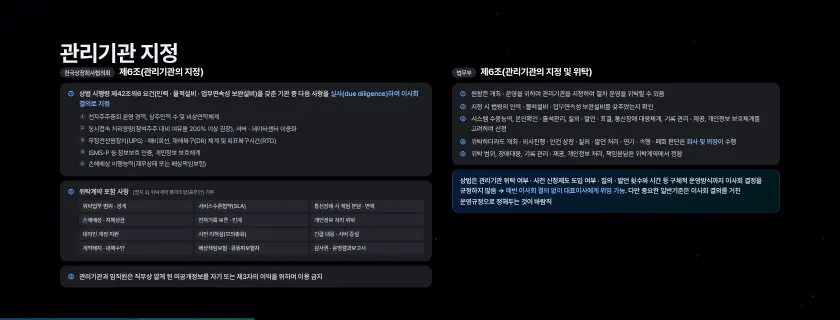
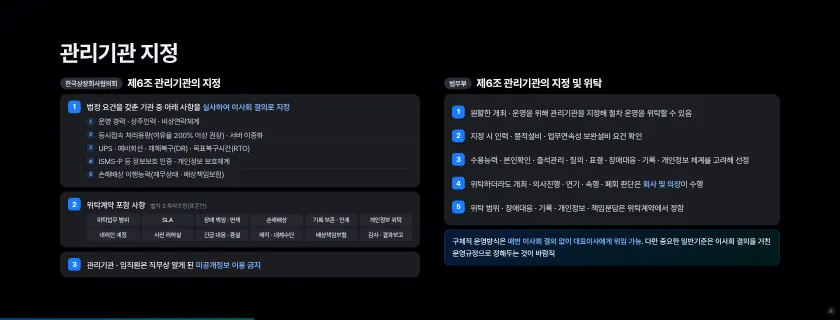
session4 K09b · K28e 재정리: 원문자 대신 파랑 번호 배지, 본문 37~44px로 키움, 문구 압축(칩 12개 6열 2줄 · 권고사항 7개 번호), 제목 아래 간격
Claude-Session: https://claude.ai/code/session_01Mn7NmyW5iujmmHnaRBFKBZ

Changed region(s): [[0.0619, 0.1875, 0.9286, 0.9062]]

diff --git a/session4.html b/session4.html
@@ -1714,6 +1714,68 @@ body:not(.idle) #sgb{opacity:.9}body.grid #sgb{opacity:0;pointer-events:none}
 #K30 .gr-t{background:linear-gradient(90deg,#F2F5FA 0%,#F2F5FA 42%,#0081cc 58%,#00ada9 100%);background-size:240% 100%;background-position:0% 0;-webkit-background-clip:text;background-clip:text}
 .s.cur#K30.p2 .gr-t{animation:k30w 1.6s cubic-bezier(.45,0,.2,1) 2.6s both}
 @keyframes k30w{from{background-position:0% 0}to{background-position:100% 0}}
+/* 11/26 20:19 K09b · K28e 재정리: 원문자 대신 번호 배지, 글자 키움(본문 40px 안팎), 문구 압축 */
+.gd .gcol{top:300px!important;gap:24px!important}
+.gd .gsrc{align-items:center;gap:24px;margin-bottom:8px}
+.gd .gsrc span{padding:12px 26px;font-size:34px;background:#2a2d34;color:#dfe4ea}
+.gd .gsrc b{font-size:54px}
+.gd .nb{flex:none;display:grid;place-items:center;width:64px;height:64px;border-radius:18px;background:#1a7cff;font:700 36px/1 "Pretendard Variable";font-style:normal;color:#fff}
+.gd .gbx{padding:34px 40px;border-radius:32px}
+.gd .gi{display:flex;gap:30px;align-items:flex-start}
+.gd .gi>div{flex:1;min-width:0}
+.gd .gi .gp{padding:0;margin-top:6px}
+.gd .gp{font:500 40px/1.45 "Pretendard Variable";color:#F2F5FA}
+.gd .gp small{display:block;margin:8px 0 0;font:400 30px/1.3 "Pretendard Variable";color:#8a919c}
+.gd .gl{margin:18px 0 0;counter-reset:g}
+.gd .gl li{padding:10px 0 10px 56px;font:400 36px/1.35 "Pretendard Variable";color:#cfd5de;border-top:2px solid rgba(242,245,250,.06)}
+.gd .gl li:first-child{border-top:0}
+.gd .gl li::before{top:12px;width:38px;height:38px;border-radius:10px;background:rgba(26,124,255,.2);font:700 24px/38px "Pretendard Variable";color:#7fb6ff}
+.gd .gchips{margin:20px 0 0;grid-template-columns:repeat(4,1fr);gap:12px}
+.gd .gchips span{padding:16px 18px;border-radius:16px;font:500 30px/1.25 "Pretendard Variable";color:#e1e5eb;text-align:center}
+.gd .gn{gap:0}
+.gd .gn li{display:flex;gap:28px;align-items:flex-start;padding:22px 0;border-top:2px solid rgba(242,245,250,.06)}
+.gd .gn li:first-child{border-top:0;padding-top:0}.gd .gn li:last-child{padding-bottom:0}
+.gd .gn li p{margin:8px 0 0;font:400 38px/1.42 "Pretendard Variable";color:#e1e5eb}
+.gd .gkey{padding:34px 42px}
+.gd .gkey p{font:500 38px/1.5 "Pretendard Variable"}
+#K28e .gtx{font:400 40px/1.5 "Pretendard Variable";color:#cfd5de;margin:0 0 4px}
+#K28e .gtwo>div{padding:36px 40px}
+#K28e .gtwo .tg{display:inline-block;padding:8px 18px;border-radius:12px;background:#1a7cff;font:700 28px/1 "Pretendard Variable";color:#fff}
+#K28e .gtwo b{display:block;margin:20px 0 0;font:700 48px/1.15 "Pretendard Variable"}
+#K28e .gtwo p{margin:16px 0 0;font:400 36px/1.45 "Pretendard Variable";color:#cfd5de}
+#K28e .g7{gap:20px}
+#K28e .g7>div{display:flex;gap:28px;align-items:flex-start;padding:32px 36px}
+#K28e .g7>div>div{flex:1;min-width:0}
+#K28e .g7 b{font:700 44px/1.2 "Pretendard Variable";color:#fff}
+#K28e .g7 b small{font-size:30px}
+#K28e .g7 p{margin:12px 0 0;font:400 34px/1.42 "Pretendard Variable";color:#cfd5de}
+.gd .gcol{top:350px!important;gap:20px!important}
+.gd .gn li .nb,.gd .gi .nb{position:static}
+.gd .gp small.in{display:inline;margin-left:16px}
+#K09b .gbx{padding:30px 38px}
+#K09b .gl{margin-top:12px}
+#K09b .gl li{padding:8px 0 8px 56px;font-size:34px}
+#K09b .gl li::before{top:9px}
+#K09b .gchips{margin-top:16px}
+#K09b .gchips span{padding:12px 14px;font-size:29px}
+.gd .gcol{top:385px!important}
+#K09b .gchips{grid-template-columns:repeat(6,1fr);gap:10px}
+#K09b .gchips span{padding:12px 6px;font-size:28px;white-space:nowrap}
+#K09b .gl li{padding:6px 0 6px 56px}
+#K09b .gl li::before{top:7px}
+.gd .gsrc{margin-bottom:0}
+.gd .nb{color:#fff!important}
+#K09b .gl li{padding:9px 0 9px 58px;font-size:37px}#K09b .gl li::before{top:12px}
+#K09b .gchips span{padding:16px 6px;font-size:30px}
+#K09b .gbx{padding:36px 40px}
+#K09b .gn li{padding:26px 0}#K09b .gn li p{font-size:40px}
+#K28e .gcol{gap:26px!important}
+#K28e .gtx{font-size:44px}
+#K28e .gtwo b{font-size:52px}#K28e .gtwo p{font-size:39px}#K28e .gtwo>div{padding:40px 42px}
+#K28e .gkey p{font-size:40px}
+#K28e .g7{gap:22px}#K28e .g7>div{padding:36px 40px}
+#K28e .g7 b{font-size:48px}#K28e .g7 p{font-size:37px}
+#K09b .gl li{padding:7px 0 7px 58px}#K09b .gl li::before{top:10px}#K09b .gchips span{padding:13px 6px}#K09b .gbx{padding:32px 40px}
 </style></head>
 <body>
 <div class="stage" id="stage">
@@ -1830,23 +1892,23 @@ body:not(.idle) #sgb{opacity:.9}body.grid #sgb{opacity:0;pointer-events:none}
 
 <section class="s gd" id="K09b" data-t="관리기관 지정 (상장협 · 법무부)" data-dim=".1">
  <div class="top"><h2 class="h hm fu" style="--i:0">관리기관 지정</h2></div>
- <div class="gcol" style="left:300px;width:1860px">
-  <div class="gsrc fu" style="--i:1"><span>한국상장회사협의회</span><b>제6조(관리기관의 지정)</b></div>
-  <div class="gbx fu" style="--i:2"><p class="gp"><i>①</i>상법 시행령 제42조의6 요건(인력 · 물적설비 · 업무연속성 보완설비)을 갖춘 기관 중 다음 사항을 <em>실사(due diligence)하여 이사회 결의로 지정</em></p>
-   <ol class="gl"><li>전자주주총회 운영 경력, 상주인력 수 및 비상연락체계</li><li>동시접속 처리용량(참석주주 대비 여유율 200% 이상 권장), 서버 · 데이터센터 이중화</li><li>무정전전원장치(UPS) · 예비회선, 재해복구(DR) 체계 및 목표복구시간(RTO)</li><li>ISMS-P 등 정보보호 인증, 개인정보 보호체계</li><li>손해배상 이행능력(재무상태 또는 배상책임보험)</li></ol></div>
-  <div class="gbx fu" style="--i:3"><p class="gp"><i>②</i>위탁계약 포함 사항 <small>[별지 3] 위탁계약 특약조항(표준안) 기본</small></p>
-   <div class="gchips"><span>위탁업무 범위 · 경계</span><span>서비스수준협약(SLA)</span><span>통신장애 시 책임 분담 · 면책</span><span>손해배상 · 지체상금</span><span>전자기록 보존 · 인계</span><span>개인정보 처리 위탁</span><span>대리인 계정 지원</span><span>사전 리허설(모의총회)</span><span>긴급 대응 · 서버 증설</span><span>계약해지 · 대체수단</span><span>배상책임보험 · 공동피보험자</span><span>감사권 · 운영결과보고서</span></div></div>
-  <div class="gbx fu" style="--i:4"><p class="gp"><i>③</i>관리기관과 임직원은 직무상 알게 된 미공개정보를 자기 또는 제3자의 이익을 위하여 이용 금지</p></div>
+ <div class="gcol gL" style="left:300px;width:1800px">
+  <div class="gsrc fu" style="--i:1"><span>한국상장회사협의회</span><b>제6조 관리기관의 지정</b></div>
+  <div class="gbx fu" style="--i:2"><div class="gi"><i class="nb">1</i><div><p class="gp">법정 요건을 갖춘 기관 중 아래 사항을 <em>실사하여 이사회 결의로 지정</em></p>
+   <ol class="gl"><li>운영 경력 · 상주인력 · 비상연락체계</li><li>동시접속 처리용량(여유율 200% 이상 권장) · 서버 이중화</li><li>UPS · 예비회선 · 재해복구(DR) · 목표복구시간(RTO)</li><li>ISMS-P 등 정보보호 인증 · 개인정보 보호체계</li><li>손해배상 이행능력(재무상태 · 배상책임보험)</li></ol></div></div></div>
+  <div class="gbx fu" style="--i:3"><div class="gi"><i class="nb">2</i><div><p class="gp">위탁계약 포함 사항 <small class="in">별지 3 특약조항(표준안)</small></p>
+   <div class="gchips"><span>위탁업무 범위</span><span>SLA</span><span>장애 책임 · 면책</span><span>손해배상</span><span>기록 보존 · 인계</span><span>개인정보 위탁</span><span>대리인 계정</span><span>사전 리허설</span><span>긴급 대응 · 증설</span><span>해지 · 대체수단</span><span>배상책임보험</span><span>감사 · 결과보고</span></div></div></div></div>
+  <div class="gbx fu" style="--i:4"><div class="gi"><i class="nb">3</i><p class="gp">관리기관 · 임직원은 직무상 알게 된 <em>미공개정보 이용 금지</em></p></div></div>
  </div>
- <div class="gcol" style="left:2260px;width:1640px">
-  <div class="gsrc fu" style="--i:2"><span>법무부</span><b>제6조(관리기관의 지정 및 위탁)</b></div>
+ <div class="gcol gR" style="left:2220px;width:1680px">
+  <div class="gsrc fu" style="--i:2"><span>법무부</span><b>제6조 관리기관의 지정 및 위탁</b></div>
   <div class="gbx fu" style="--i:3"><ol class="gn">
-   <li><i>①</i>원활한 개최 · 운영을 위하여 관리기관을 지정하여 절차 운영을 위탁할 수 있음</li>
-   <li><i>②</i>지정 시 법령의 인력 · 물적설비 · 업무연속성 보완설비를 갖추었는지 확인</li>
-   <li><i>③</i>시스템 수용능력, 본인확인 · 출석관리, 질의 · 발언 · 표결, 통신장애 대응체계, 기록 관리 · 제공, 개인정보 보호체계를 고려하여 선정</li>
-   <li><i>④</i>위탁하더라도 개최 · 의사진행 · 안건 상정 · 질의 · 발언 처리 · 연기 · 속행 · 폐회 판단은 <em>회사 및 의장</em>이 수행</li>
-   <li><i>⑤</i>위탁 범위, 장애대응, 기록 관리 · 제공, 개인정보 처리, 책임분담은 위탁계약에서 정함</li></ol></div>
-  <div class="gkey fu" style="--i:4"><p>상법은 관리기관 위탁 여부 · 사전 신청제도 도입 여부 · 질의 · 발언 횟수와 시간 등 구체적 운영방식까지 이사회 결정을 규정하지 않음 → <em>매번 이사회 결의 없이 대표이사에게 위임 가능</em>. 다만 중요한 일반기준은 이사회 결의를 거친 운영규정으로 정해두는 것이 바람직</p></div>
+   <li><i class="nb">1</i><p>원활한 개최 · 운영을 위해 관리기관을 지정해 절차 운영을 위탁할 수 있음</p></li>
+   <li><i class="nb">2</i><p>지정 시 인력 · 물적설비 · 업무연속성 보완설비 요건 확인</p></li>
+   <li><i class="nb">3</i><p>수용능력 · 본인확인 · 출석관리 · 질의 · 표결 · 장애대응 · 기록 · 개인정보 체계를 고려해 선정</p></li>
+   <li><i class="nb">4</i><p>위탁하더라도 개최 · 의사진행 · 연기 · 속행 · 폐회 판단은 <em>회사 및 의장</em>이 수행</p></li>
+   <li><i class="nb">5</i><p>위탁 범위 · 장애대응 · 기록 · 개인정보 · 책임분담은 위탁계약에서 정함</p></li></ol></div>
+  <div class="gkey fu" style="--i:4"><p>구체적 운영방식은 <em>매번 이사회 결의 없이 대표이사에게 위임 가능</em>. 다만 중요한 일반기준은 이사회 결의를 거친 운영규정으로 정해두는 것이 바람직</p></div>
  </div>
 </section>
 
@@ -2140,22 +2202,22 @@ body:not(.idle) #sgb{opacity:.9}body.grid #sgb{opacity:0;pointer-events:none}
 
 <section class="s gd" id="K28e" data-t="운영지원 5 · 통신장애 (법무부 권고)" data-dim=".1">
  <div class="top"><h2 class="h hm fu" style="--i:0">통신장애</h2></div>
- <div class="gcol" style="left:300px;width:1300px">
-  <div class="gsrc fu" style="--i:1"><span>법무부</span><b>마. 통신장애에 대한 대책</b></div>
-  <p class="gtx fu" style="--i:2">사이버 공격이나 대규모 장애로 통신장애가 발생할 수 있으므로, 회사는 통신장애에 대한 대책을 강구하여야 함</p>
-  <div class="gtwo fu" style="--i:3"><div><i>①</i><b>사전 대응</b><p>준비 단계에서 합리적 대책을 갖추고 통신장애의 위험을 사전 고지</p></div><div><i>②</i><b>사후 대응</b><p>실제 장애 발생 시 최대한 신속하고 효율적으로 피해를 최소화</p></div></div>
-  <div class="gkey fu" style="--i:4"><p>①, ②의 사전적 · 사후적 대응조치를 충실히 취한 경우, 통신장애로 일부 전자출석 주주의 참석이 제한되더라도 <em>결의취소에 이르는 하자가 아닌 것</em>으로 판단되거나 <em>재량기각(상법 제379조)의 요건을 갖춘 것</em>으로 판단될 여지가 있음</p></div>
+ <div class="gcol gL" style="left:300px;width:1320px">
+  <div class="gsrc fu" style="--i:1"><span>법무부</span><b>통신장애에 대한 대책</b></div>
+  <p class="gtx fu" style="--i:2">사이버 공격이나 대규모 장애로 통신장애가 발생할 수 있으므로, 회사는 대책을 강구하여야 함</p>
+  <div class="gtwo fu" style="--i:3"><div><span class="tg">사전</span><b>사전 대응</b><p>준비 단계에서 합리적 대책을 갖추고 위험을 사전 고지</p></div><div><span class="tg">사후</span><b>사후 대응</b><p>장애 발생 시 신속 · 효율적으로 피해 최소화</p></div></div>
+  <div class="gkey fu" style="--i:4"><p>사전 · 사후 대응을 충실히 했다면, 일부 주주의 참석이 제한되더라도 <em>결의취소 하자가 아니거나</em> <em>재량기각(상법 제379조) 요건</em>을 갖춘 것으로 판단될 여지</p></div>
  </div>
- <div class="gcol" style="left:1720px;width:2180px">
-  <div class="gsrc fu" style="--i:2"><span>법무부</span><b>(2) 통신장애 대책에 관한 구체적 권고사항</b></div>
+ <div class="gcol gR" style="left:1740px;width:2160px">
+  <div class="gsrc fu" style="--i:2"><span>법무부</span><b>구체적 권고사항</b></div>
   <div class="g7">
-   <div class="fu" style="--i:3"><b>시스템 및 백업</b><p>검증된 전문 플랫폼 이용, 서버 · 회선 · 중계 장비 · 호스트 계정 이중화(유선 · 무선 · 이동통신 복수 회선, 공동 호스트)</p></div>
-   <div class="fu" style="--i:3"><b>용량 산정</b><p>출석률 · 주주 수 · 관심도로 1차 용량 확보, 사전 신청 추이에 따라 증설. 초과 예상 시 용량 확충 · 일정 분산 · 지원인력 확대</p></div>
-   <div class="fu" style="--i:4"><b>장애 시나리오별 대응 매뉴얼</b><p>장애 유형별 대응 매뉴얼 작성</p></div>
-   <div class="fu" style="--i:4"><b>당일 현장 운영</b><p>시스템 기술진(관리기관 포함) 현장 배치, 상시 모니터링, 주주지원센터 운영</p></div>
-   <div class="fu" style="--i:5"><b>관계자 교육 및 결과보고</b><p>의장 · 이사 · 감사에게 사용법 사전 교육, 실제 환경에서 접속 · 본인확인 · 표결 · 장애 대응 시험 결과 보고</p></div>
-   <div class="fu" style="--i:5"><b>준비완료 확인</b><p>소집통지 전 운영규정 · 수용능력 · 인증수단 · 위탁계약 · 개인정보보호, 총회 전날 신청 명부 · 대리인 접속정보 · 예비 인력 · 백업 확인</p></div>
-   <div class="fu w" style="--i:6"><b>주주에 대한 사전 고지 · 안내 <small>소집통지 및 로그인 화면</small></b><p>통신장애 · 지연 가능성과 처리 방침(현장 출석 등 대체 수단, 휴회 · 연기 · 속행), 접속 환경(기기 · OS · 브라우저 · 접속속도 · 앱) · 절차 · 기술지원 연락처 안내, 주주 측 환경에 기인한 장애는 회사 책임이 아니며 결의의 하자가 되지 않는다는 점 고지</p></div>
+   <div class="fu" style="--i:3"><i class="nb">1</i><div><b>시스템 및 백업</b><p>검증된 플랫폼, 서버 · 회선 · 중계 장비 · 호스트 계정 이중화</p></div></div>
+   <div class="fu" style="--i:3"><i class="nb">2</i><div><b>용량 산정</b><p>출석률 · 주주 수로 1차 확보, 사전 신청 추이에 따라 증설</p></div></div>
+   <div class="fu" style="--i:4"><i class="nb">3</i><div><b>장애 대응 매뉴얼</b><p>장애 유형별 시나리오 · 대응 매뉴얼 작성</p></div></div>
+   <div class="fu" style="--i:4"><i class="nb">4</i><div><b>당일 현장 운영</b><p>기술진 현장 배치 · 상시 모니터링 · 주주지원센터</p></div></div>
+   <div class="fu" style="--i:5"><i class="nb">5</i><div><b>교육 및 결과보고</b><p>의장 · 이사 · 감사 사전 교육, 실제 환경 시험 결과 보고</p></div></div>
+   <div class="fu" style="--i:5"><i class="nb">6</i><div><b>준비완료 확인</b><p>소집통지 전 · 총회 전날 운영규정 · 명부 · 접속정보 · 백업 확인</p></div></div>
+   <div class="fu w" style="--i:6"><i class="nb">7</i><div><b>주주 사전 고지 · 안내 <small>소집통지 · 로그인 화면</small></b><p>지연 가능성과 대체 수단(현장 출석 · 휴회 · 연기 · 속행), 접속 환경 · 기술지원 연락처 안내. 주주 측 환경에 기인한 장애는 회사 책임이 아니며 결의 하자가 되지 않음을 고지</p></div></div>
   </div>
  </div>
 </section> 

diff --git a/sw.js b/sw.js
@@ -1,5 +1,5 @@
 /* 오프라인 캐시 — 온라인 주소(https)로 한 번 열면 모든 파일을 저장해 두고, 통신이 끊겨도 저장본으로 동작합니다. */
-const V='seminar-screen-11262022';
+const V='seminar-screen-11262025';
 const FILES=["./","assets/KakaoBigSans-Bold.woff2","assets/KakaoBigSans-Regular.woff2","assets/KakaoSmallSans-Bold.woff2","assets/KakaoSmallSans-Light.woff2","assets/KakaoSmallSans-Regular.woff2","assets/OrbitControls.js","assets/PretendardVariable.woff2","assets/attendees.js","assets/blue-bloom.html","assets/cong1.webp","assets/cong2.webp","assets/ds-bg.html","assets/four-states.html","assets/intro.mp4","assets/irk-white.svg","assets/irk-wordmark-white.svg","assets/kism-intro.mp4","assets/kism-white.svg","assets/ksmp-white.svg","assets/panel.js","assets/qa-online.js","assets/s2/img1.png","assets/s2/img2.png","assets/s2/img3.png","assets/s2/img4.png","assets/s4/aws.webp","assets/s4/callcenter.webp","assets/s4/chair-1.webp","assets/s4/chair-2.webp","assets/s4/chair-3.webp","assets/s4/conexus-word.webp","assets/s4/ctl-1.webp","assets/s4/cx-1.webp","assets/s4/cx-2.webp","assets/s4/cx-3.webp","assets/s4/cx-flow.mp4","assets/s4/cx-pop1.webp","assets/s4/cx-pop2.webp","assets/s4/cx-vote.mp4","assets/s4/cx-vote.webp","assets/s4/cxs-1.webp","assets/s4/insurance.webp","assets/s4/isms-t.webp","assets/s4/isms.webp","assets/s4/ismsp-t.webp","assets/s4/ismsp.webp","assets/s4/kosmos-white.png","assets/s4/ks-1.webp","assets/s4/ks-2.webp","assets/s4/ks-3.webp","assets/s4/ks-4.webp","assets/s4/ks-5.webp","assets/s4/ks-video.webp","assets/s4/live-1.webp","assets/s4/live-2.webp","assets/s4/live-3.webp","assets/s4/live-4.webp","assets/s4/live-5.webp","assets/s4/live-6.webp","assets/s4/live-7.webp","assets/s4/live-8.webp","assets/s4/logos.webp","assets/s4/ocr-1.webp","assets/s4/ocr-2.webp","assets/s4/ocr-3.webp","assets/s4/ocr-4.webp","assets/s4/ocr-5.webp","assets/s4/on-1.png","assets/s4/on-2.webp","assets/s4/on-3.webp","assets/s4/on-4.png","assets/s4/on-5.webp","assets/s4/onboard-1.webp","assets/s4/onboard-2.webp","assets/s4/privacy.webp","assets/s4/proxymity.svg","assets/s4/rehearsal.webp","assets/s4/streaming-korea.webp","assets/s4/tab-1.webp","assets/s4/tab-2.webp","assets/s4/team.webp","assets/sched.js","assets/screen-title-2.svg","assets/screen-title-b-text.svg","assets/screen-title-b.svg","assets/seat-banners.js","assets/seat-fascia.js","assets/seat-screen.js","assets/seatmap.js","assets/service-intro.mp4","assets/speaker-scott.webp","assets/speaker1-1.webp","assets/speaker2.webp","assets/speaker3-1.webp","assets/supabase.min.js","assets/three.min.js","assets/title-logos.svg","control.html","index-fs.html","index.html","kism.html","lobby/cuts.html","lobby/index.html","mc.html","session2.html","session4.html","sw.js","tools/s2_build.py","tools/s2_shell.html","assets/s3/p01.webp","assets/s3/p02.webp","assets/s3/p03.webp","assets/s3/p04.webp","assets/s3/p05.webp","assets/s3/p06.webp","assets/s3/p07.webp","assets/s3/p08.webp","assets/s3/p09.webp","assets/s3/p10.webp","assets/s3/p11.webp","assets/s3/p12.webp","assets/s3/p13.webp","assets/s3/p14.webp","assets/s3/p15.webp","assets/s3/p16.webp","assets/s3/p17.webp","assets/s3/p18.webp","assets/s3/p19.webp","assets/s3/p20.webp","assets/s3/p21.webp","assets/s3/p22.webp","assets/s3/p23.webp","assets/kism/photo-main.webp","assets/kism/photo-2.webp","assets/kism/photo-3.webp","assets/kism/photo-4.webp","assets/sound/countdown-tick.mp3","assets/sound/sfx-s3-part.mp3","assets/sound/sfx-s4-reveal.mp3","assets/sound/sfx-s5-proxymity.mp3","assets/sound/sfx-s6-chime.mp3","assets/sound/sfx-s7-close.mp3","assets/sound/opening-hit.mp3","assets/s4/kosmos-color.svg","assets/s4/ke-logo.png","assets/s4/ke-live.mp4","assets/kism/kwon-talk.mp4","assets/kism/manual-book.webp","kism-open.html","kism_16x9.html","led.html","assets/s4/cx-ops.mp4","assets/s4/cx-ops.webp","assets/s4/agent-app.mp4","assets/s4/agent-app.webp","assets/s4/k24b-bg.webp","session0.html","assets/kism/photo-main-cut.webp","assets/s4/cx-chair.mp4","assets/s4/cx-chair.webp","assets/s4/cx-test.mp4","assets/s4/cx-test.webp","assets/s4/onboard-mgr.webp","assets/s4/proxymity-logo.png","assets/s4/k21-bg.webp","assets/s4/kosmos-admin-white.svg","assets/kism-intro-16x9.mp4","assets/seat-guide.html","assets/s4/app-icon-agent.svg","assets/ds-main.mp4","assets/s4/k2-agency.webp","assets/s4/k2-support.webp","assets/s4/thumbs/K00.webp","assets/s4/thumbs/K01.webp","assets/s4/thumbs/K02.webp","assets/s4/thumbs/K03.webp","assets/s4/thumbs/K04.webp","assets/s4/thumbs/K05.webp","assets/s4/thumbs/K06.webp","assets/s4/thumbs/K07.webp","assets/s4/thumbs/K08.webp","assets/s4/thumbs/K09.webp","assets/s4/thumbs/K10.webp","assets/s4/thumbs/K11.webp","assets/s4/thumbs/K12.webp","assets/s4/thumbs/K13.webp","assets/s4/thumbs/K14.webp","assets/s4/thumbs/K15.webp","assets/s4/thumbs/K16.webp","assets/s4/thumbs/K17.webp","assets/s4/thumbs/K18a.webp","assets/s4/thumbs/K18b.webp","assets/s4/thumbs/K18c.webp","assets/s4/thumbs/K19.webp","assets/s4/thumbs/K19b.webp","assets/s4/thumbs/K20.webp","assets/s4/thumbs/K21.webp","assets/s4/thumbs/K21b.webp","assets/s4/thumbs/K22s.webp","assets/s4/thumbs/K23.webp","assets/s4/thumbs/K23b.webp","assets/s4/thumbs/K24a.webp","assets/s4/thumbs/K24b.webp","assets/s4/thumbs/K24c.webp","assets/s4/thumbs/K25.webp","assets/s4/thumbs/K25b.webp","assets/s4/thumbs/K26.webp","assets/s4/thumbs/K27.webp","assets/s4/thumbs/K28a.webp","assets/s4/thumbs/K28b.webp","assets/s4/thumbs/K28c.webp","assets/s4/thumbs/K28d.webp","assets/s4/thumbs/K29.webp","assets/s4/thumbs/K30.webp","assets/s4/thumbs/K09b.webp","assets/s4/thumbs/K28e.webp","assets/s4/onsite-vote.mp4","assets/s4/onsite-vote.webp"];
 self.addEventListener('install',e=>{e.waitUntil(caches.open(V).then(c=>c.addAll(FILES)).then(()=>self.skipWaiting()));});
 self.addEventListener('activate',e=>{e.waitUntil(caches.keys().then(ks=>Promise.all(ks.filter(k=>k!==V).map(k=>caches.delete(k)))).then(()=>self.clients.claim()));});
